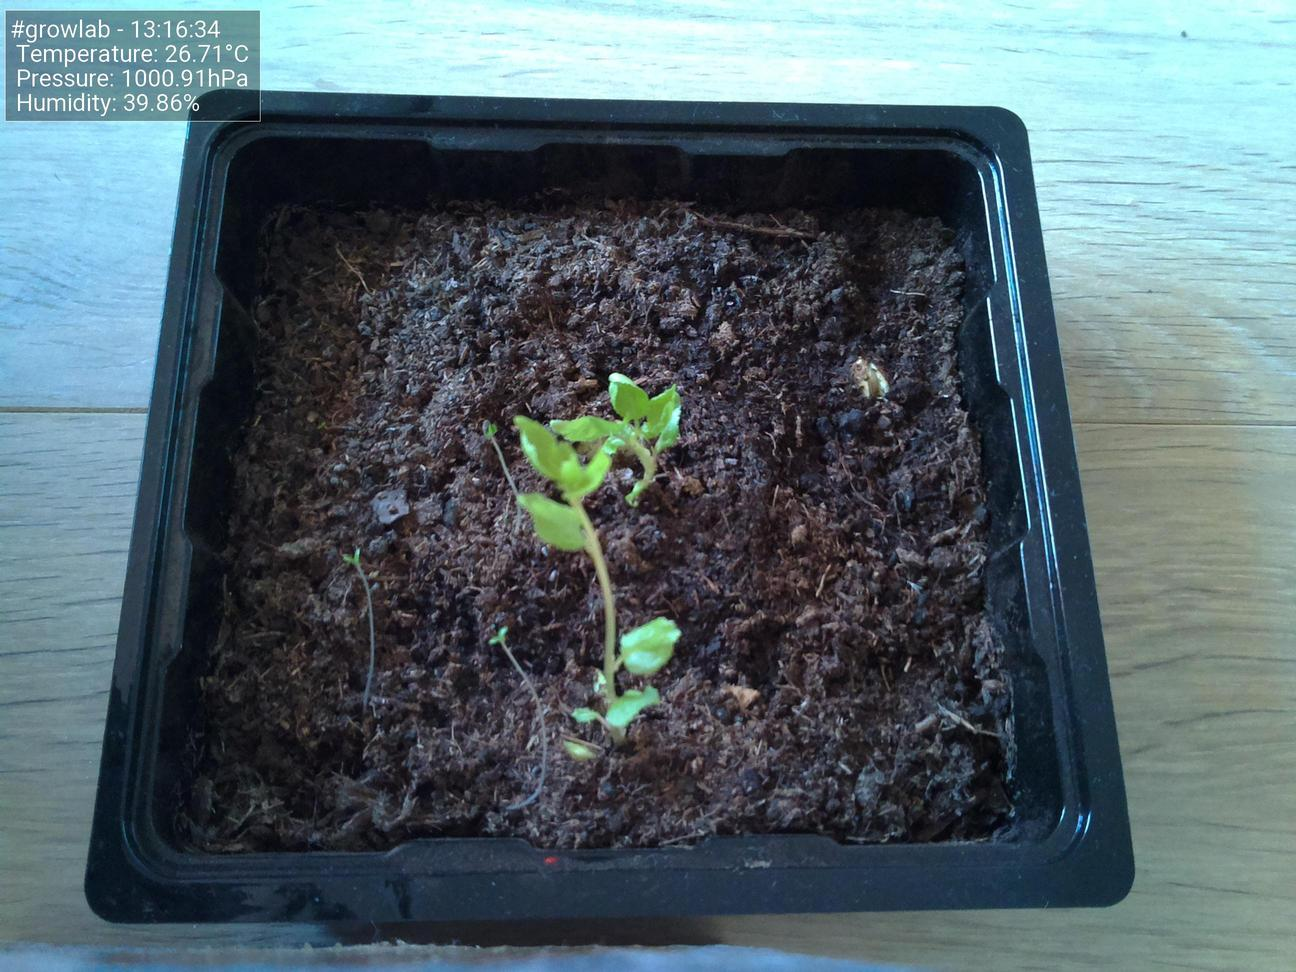
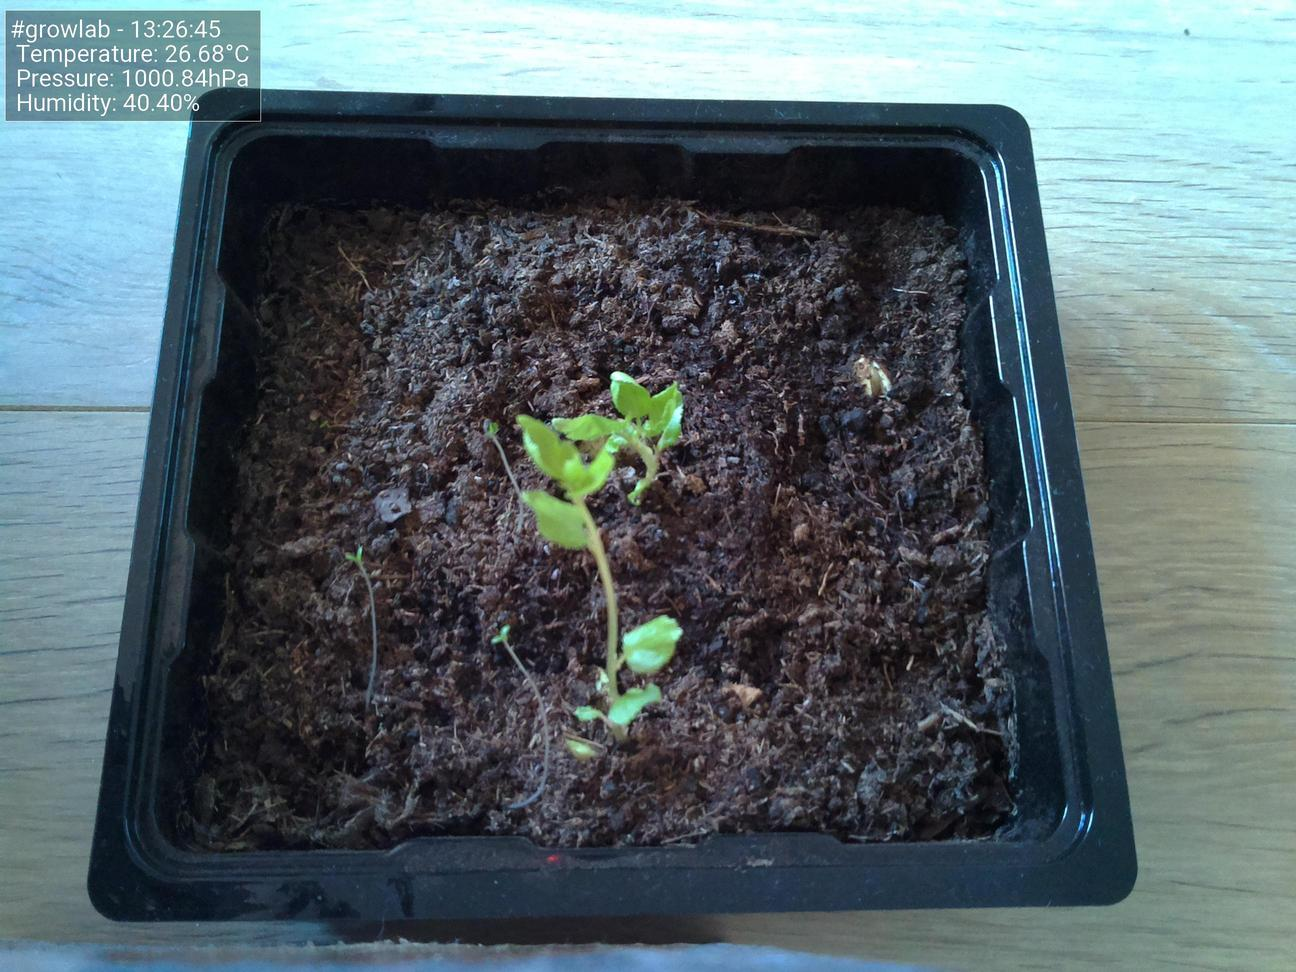
Update images at Thu 10 Jun 13:26:49 CEST 2021

diff --git a/docs/index.html b/docs/index.html
@@ -47,19 +47,19 @@
                         <tbody>
                             <tr>
                                 <td>Time</td>
-                                <td>13:16:34</td>
+                                <td>13:26:45</td>
                             </tr>
                             <tr>
                                 <td>Temperature</td>
-                                <td>26.71°C</td>
+                                <td>26.68°C</td>
                             </tr>
                             <tr>
                                 <td>Humidity</td>
-                                <td>39.86%</td>
+                                <td>40.40%</td>
                             </tr>
                             <tr>
                                 <td>Pressure</td>
-                                <td>1000.91hPa</td>
+                                <td>1000.84hPa</td>
                             </tr>
                         </tbody>
                     </table>
@@ -67,7 +67,7 @@
 
                 <h5>Latest image</h5>
                 <div style="width: 85%;">
-                            <img class="figure-img img-fluid rounded" src="./preview.jpg?uid=1623323798.530066">
+                            <img class="figure-img img-fluid rounded" src="./preview.jpg?uid=1623324409.5541685">
                 </div>
             </div>
         </div>
